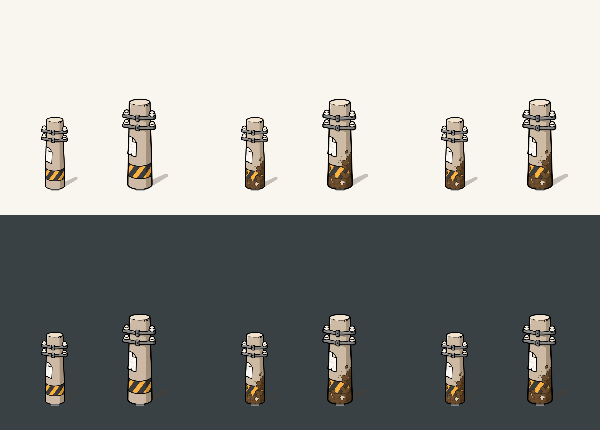
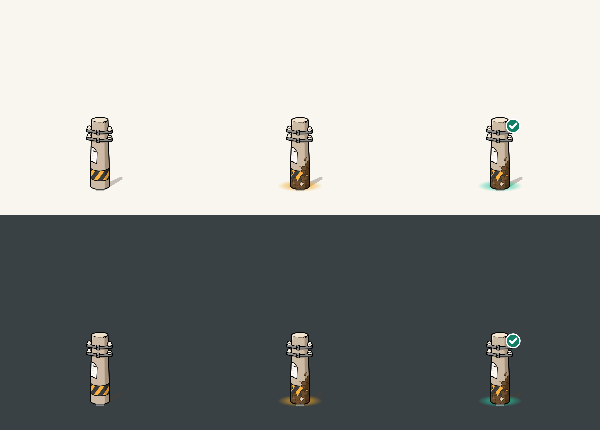
전봇대 인증 상태가 같은 그림으로 보이던 것을 발광과 체크로 구분
미인증에는 주황빛, 인증에는 민트빛과 체크를 고정 합성한다. 원본 리소스 대신 점유 상태별로 아이콘을 캐시하고 규칙 예시에도 같은 표시를 적용한다. 대상 테스트 9개, 디버그 빌드와 실기기 선택 전후 표시를 검증했다.

diff --git a/app/src/test/java/com/daengs/app/map/layers/territory/TerritoryPoleArtTest.kt b/app/src/test/java/com/daengs/app/map/layers/territory/TerritoryPoleArtTest.kt
@@ -17,11 +17,13 @@ import org.robolectric.annotation.GraphicsMode
 class TerritoryPoleArtTest {
     private val context get() = ApplicationProvider.getApplicationContext<Application>()
 
-    @Test fun `미인증과 인증은 같은 점령 그림을 쓰고 기본과 구분된다`() {
+    @Test fun `공유 원본이어도 미인증과 인증의 합성 그림은 구분된다`() {
         val neutral = territoryMarkerIcon(context, TerritoryMarkerOccupancy.NEUTRAL)
         val unverified = territoryMarkerIcon(context, TerritoryMarkerOccupancy.UNVERIFIED)
         val verified = territoryMarkerIcon(context, TerritoryMarkerOccupancy.VERIFIED)
-        assertTrue(unverified.sameAs(verified))
+        assertEquals(TerritoryPoleArt.resource(TerritoryMarkerOccupancy.UNVERIFIED),
+            TerritoryPoleArt.resource(TerritoryMarkerOccupancy.VERIFIED))
+        assertFalse(unverified.sameAs(verified))
         assertFalse(neutral.sameAs(unverified))
         fun baseBrightness(bitmap: Bitmap): Double = (560 until 605).flatMap { y ->
             (100 until 160).map { x -> bitmap.getPixel(x, y) }
@@ -54,7 +56,9 @@ class TerritoryPoleArtTest {
             assertTrue("축소해도 발은 같은 지리 좌표", inkRows.last() in 622..624)
             assertEquals(0, Color.alpha(bitmap.getPixel(128, 200)))
             assertEquals(76, Color.alpha(bitmap.getPixel(218, 575)))
-            assertEquals(0, Color.alpha(bitmap.getPixel(58, 583)))
+            if (state == TerritoryMarkerOccupancy.NEUTRAL) {
+                assertEquals(0, Color.alpha(bitmap.getPixel(58, 583)))
+            }
             assertEquals(0, Color.alpha(bitmap.getPixel(220, 540)))
             val small = Bitmap.createScaledBitmap(bitmap, 48, 120, true)
             val visibleShadow = (100 until 119).sumOf { y ->
@@ -63,6 +67,31 @@ class TerritoryPoleArtTest {
             assertTrue("실제 표시 크기에서도 밑동 밖 그림자가 남아야 한다", visibleShadow >= 8)
         }
         assertEquals(48 to 120, TerritoryPoleArt.size())
+    }
+
+    @Test fun `실제 지도 크기에서도 발광 색과 인증 체크가 남고 가장자리는 잘리지 않는다`() {
+        val icons = TerritoryMarkerOccupancy.entries.associateWith { state ->
+            val bitmap = territoryMarkerIcon(context, state)
+            for (x in 0 until bitmap.width) {
+                assertEquals(0, Color.alpha(bitmap.getPixel(x, bitmap.height - 1)))
+            }
+            for (y in 0 until bitmap.height) {
+                assertEquals(0, Color.alpha(bitmap.getPixel(0, y)))
+                assertEquals(0, Color.alpha(bitmap.getPixel(bitmap.width - 1, y)))
+            }
+            Bitmap.createScaledBitmap(bitmap, 48, 120, true)
+        }
+        fun count(state: TerritoryMarkerOccupancy, xs: IntRange, ys: IntRange, predicate: (Int) -> Boolean) =
+            ys.sumOf { y -> xs.count { x -> predicate(icons.getValue(state).getPixel(x, y)) } }
+        val orange: (Int) -> Boolean = { Color.alpha(it) > 40 && Color.red(it) > Color.green(it) + 40 && Color.green(it) > Color.blue(it) + 40 }
+        val mint: (Int) -> Boolean = { Color.alpha(it) > 40 && Color.green(it) > Color.red(it) + 60 && Color.blue(it) > Color.red(it) + 40 }
+        assertEquals(0, count(TerritoryMarkerOccupancy.NEUTRAL, 5..18, 108..117, orange))
+        assertTrue(count(TerritoryMarkerOccupancy.UNVERIFIED, 5..18, 108..117, orange) >= 15)
+        assertTrue(count(TerritoryMarkerOccupancy.VERIFIED, 5..18, 108..117, mint) >= 15)
+        val white: (Int) -> Boolean = { Color.alpha(it) > 200 && Color.red(it) > 230 && Color.green(it) > 230 && Color.blue(it) > 230 }
+        assertTrue("전봇대 자체의 밝은 픽셀과 별개로 인증 체크의 흰 획이 남는다",
+            count(TerritoryMarkerOccupancy.VERIFIED, 34..40, 50..56, white) >=
+                count(TerritoryMarkerOccupancy.UNVERIFIED, 34..40, 50..56, white) + 5)
     }
 
     @Test fun `준비는 크기가 고정되고 성공 효과는 세로 비율과 접점을 유지한다`() {
@@ -88,14 +117,12 @@ class TerritoryPoleArtTest {
         for ((row, footY) in listOf(190f, 405f).withIndex()) {
             for ((col, state) in TerritoryMarkerOccupancy.entries.withIndex()) {
                 val bitmap = territoryMarkerIcon(context, state)
-                for (variant in 0..1) {
-                    val (width, height) = TerritoryPoleArt.size()
-                    val x = 55f + col * 200 + variant * 85
-                    val top = footY - height * TerritoryPoleArt.ANCHOR_Y
-                    canvas.drawBitmap(bitmap, null, RectF(x - width / 2f, top, x + width / 2f, top + height), paint)
-                    paint.color = if (row == 0) Color.GRAY else Color.LTGRAY
-                    canvas.drawLine(x - 4, footY, x + 4, footY, paint)
-                }
+                val (width, height) = TerritoryPoleArt.size()
+                val x = 100f + col * 200
+                val top = footY - height * TerritoryPoleArt.ANCHOR_Y
+                canvas.drawBitmap(bitmap, null, RectF(x - width / 2f, top, x + width / 2f, top + height), paint)
+                paint.color = if (row == 0) Color.GRAY else Color.LTGRAY
+                canvas.drawLine(x - 4, footY, x + 4, footY, paint)
             }
         }
         val file = File("build/reports/territory-pole/native-sizes.png")

diff --git a/app/src/main/java/com/daengs/app/map/layers/territory/TerritoryMarkerIcon.kt b/app/src/main/java/com/daengs/app/map/layers/territory/TerritoryMarkerIcon.kt
@@ -8,6 +8,8 @@ import android.graphics.Color
 import android.graphics.Paint
 import android.graphics.Path
 import android.graphics.RectF
+import android.graphics.RadialGradient
+import android.graphics.Shader
 import androidx.annotation.DrawableRes
 import com.daengs.app.R
 import kotlin.math.roundToInt
@@ -35,7 +37,7 @@ internal object TerritoryPoleArt {
     }
 }
 
-/** 점유 여부만 그림으로 표시한다. 인증 여부는 기존 지도 caption/카드가 담당한다. */
+/** 고정된 밑동 발광과 인증 체크. 실제 범위 원/성공 애니메이션과는 별개다. */
 internal fun territoryMarkerIcon(context: Context, occupancy: TerritoryMarkerOccupancy): Bitmap {
     val source = checkNotNull(BitmapFactory.decodeResource(context.resources, TerritoryPoleArt.resource(occupancy)))
     val result = Bitmap.createBitmap(TerritoryPoleArt.WIDTH, TerritoryPoleArt.HEIGHT, Bitmap.Config.ARGB_8888)
@@ -51,12 +53,52 @@ internal fun territoryMarkerIcon(context: Context, occupancy: TerritoryMarkerOcc
         quadTo(128f, 627f, 105f, 614f)
         close()
     }, paint)
+    drawOccupancyGlow(canvas, occupancy)
     paint.color = Color.WHITE
     val scale = TerritoryPoleArt.ART_SCALE
     val left = 128f * (1f - scale)
     val top = 624f * (1f - scale)
     canvas.drawBitmap(source, null, RectF(left, top,
         left + source.width * scale, top + source.height * scale), paint)
+    if (occupancy == TerritoryMarkerOccupancy.VERIFIED) drawVerifiedBadge(canvas)
     source.recycle()
     return result
+}
+
+private fun drawOccupancyGlow(canvas: Canvas, occupancy: TerritoryMarkerOccupancy) {
+    val rgb = when (occupancy) {
+        TerritoryMarkerOccupancy.NEUTRAL -> return
+        TerritoryMarkerOccupancy.UNVERIFIED -> 0xF5A623
+        TerritoryMarkerOccupancy.VERIFIED -> 0x24C9A0
+    }
+    val paint = Paint(Paint.ANTI_ALIAS_FLAG).apply {
+        shader = RadialGradient(0f, 0f, 120f,
+            intArrayOf(0xDA000000.toInt() or rgb, 0xA0000000.toInt() or rgb, rgb),
+            floatArrayOf(0f, .42f, 1f), Shader.TileMode.CLAMP)
+    }
+    // 45×11px at native map size. Fits below the foot without moving its anchor.
+    canvas.save()
+    canvas.translate(128f, 602f)
+    canvas.scale(1f, .26f)
+    canvas.drawCircle(0f, 0f, 120f, paint)
+    canvas.restore()
+}
+
+private fun drawVerifiedBadge(canvas: Canvas) {
+    val paint = Paint(Paint.ANTI_ALIAS_FLAG)
+    // White rim + dark mint face keep the check readable on both land and roads.
+    paint.color = Color.WHITE
+    canvas.drawCircle(198f, 282f, 40f, paint)
+    paint.color = Color.rgb(17, 128, 103)
+    canvas.drawCircle(198f, 282f, 33f, paint)
+    paint.color = Color.WHITE
+    paint.style = Paint.Style.STROKE
+    paint.strokeWidth = 12f
+    paint.strokeCap = Paint.Cap.ROUND
+    paint.strokeJoin = Paint.Join.ROUND
+    canvas.drawPath(Path().apply {
+        moveTo(181f, 282f)
+        lineTo(193f, 294f)
+        lineTo(215f, 270f)
+    }, paint)
 }

diff --git a/app/src/main/java/com/daengs/app/map/provider/naver/NaverTerritoryLayer.kt b/app/src/main/java/com/daengs/app/map/provider/naver/NaverTerritoryLayer.kt
@@ -20,8 +20,8 @@ internal fun NaverTerritoryLayer(map: NaverMap?, sites: List<TerritorySiteMarker
     val context = androidx.compose.ui.platform.LocalContext.current
     val density = androidx.compose.ui.platform.LocalDensity.current.density
     val icons = remember(context) {
-        TerritoryMarkerOccupancy.entries.distinctBy(TerritoryPoleArt::resource).associate {
-            TerritoryPoleArt.resource(it) to OverlayImage.fromBitmap(territoryMarkerIcon(context, it))
+        TerritoryMarkerOccupancy.entries.associateWith {
+            OverlayImage.fromBitmap(territoryMarkerIcon(context, it))
         }
     }
     val overlays = remember(map) { mutableMapOf<String, SiteOverlays>() }
@@ -50,7 +50,7 @@ internal fun NaverTerritoryLayer(map: NaverMap?, sites: List<TerritorySiteMarker
                 val size = TerritoryPoleArt.size()
                 width = size.first; height = size.second
                 anchor = PointF(TerritoryPoleArt.ANCHOR_X, TerritoryPoleArt.ANCHOR_Y)
-                icon = icons.getValue(TerritoryPoleArt.resource(site.occupancy))
+                icon = icons.getValue(site.occupancy)
                 alpha = if (site.occupancyKnown) 1f else .55f
                 zIndex = if (site.selected) 100 else 30
                 // 성공 발자국이 같은 위치에 떠도 선택한 전봇대가 충돌 숨김 처리되면 안 된다.

diff --git a/app/src/main/java/com/daengs/app/ui/game/TerritoryGuideScene.kt b/app/src/main/java/com/daengs/app/ui/game/TerritoryGuideScene.kt
@@ -42,8 +42,12 @@ internal fun TerritoryGuideScene(scenario: GuideScenario, step: GuideStep, onSel
     val ownerBreed = if (mine) DogBreed.BICHON_FRISE else DogBreed.TOY_POODLE_CHOCOLATE
     val status = if (step == GuideStep.RESULT) "인증 영역" else if (occupied) "미인증 영역" else "빈 전봇대"
     val context = LocalContext.current
-    val pole = remember(context, occupied) { territoryMarkerIcon(context,
-        if (occupied) TerritoryMarkerOccupancy.UNVERIFIED else TerritoryMarkerOccupancy.NEUTRAL).asImageBitmap() }
+    val occupancy = when {
+        step == GuideStep.RESULT -> TerritoryMarkerOccupancy.VERIFIED
+        occupied -> TerritoryMarkerOccupancy.UNVERIFIED
+        else -> TerritoryMarkerOccupancy.NEUTRAL
+    }
+    val pole = remember(context, occupancy) { territoryMarkerIcon(context, occupancy).asImageBitmap() }
     val dogImage = ImageBitmap.imageResource(DogBreed.BICHON_FRISE.sheetRes)
     val dogSheet = remember(dogImage) { SpriteSheet(dogImage, dogImage.width / 4, dogImage.height, 4, 4, filterQuality = FilterQuality.None) }
     val proximity = if (step == GuideStep.APPROACH) TerritoryProximityRange.APPROACHING else TerritoryProximityRange.IN_RANGE
